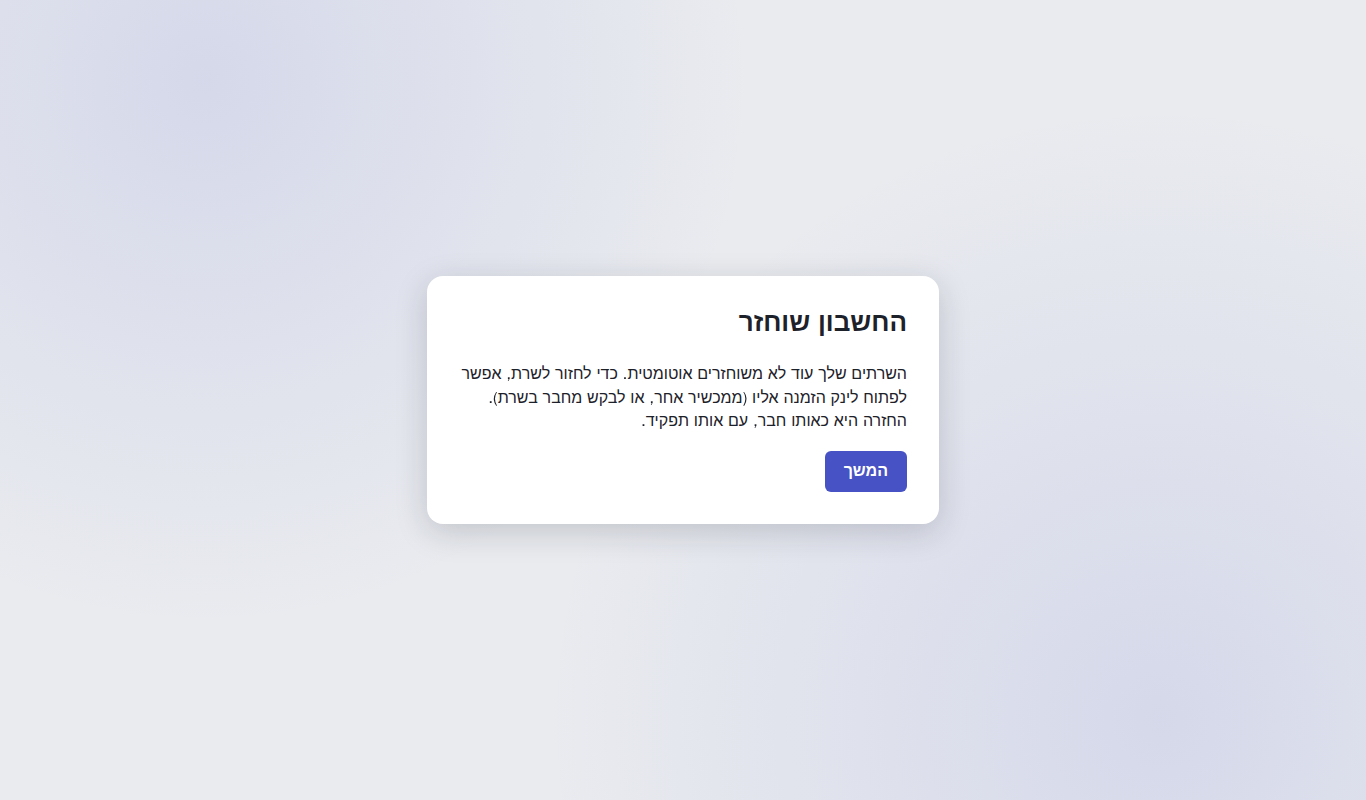
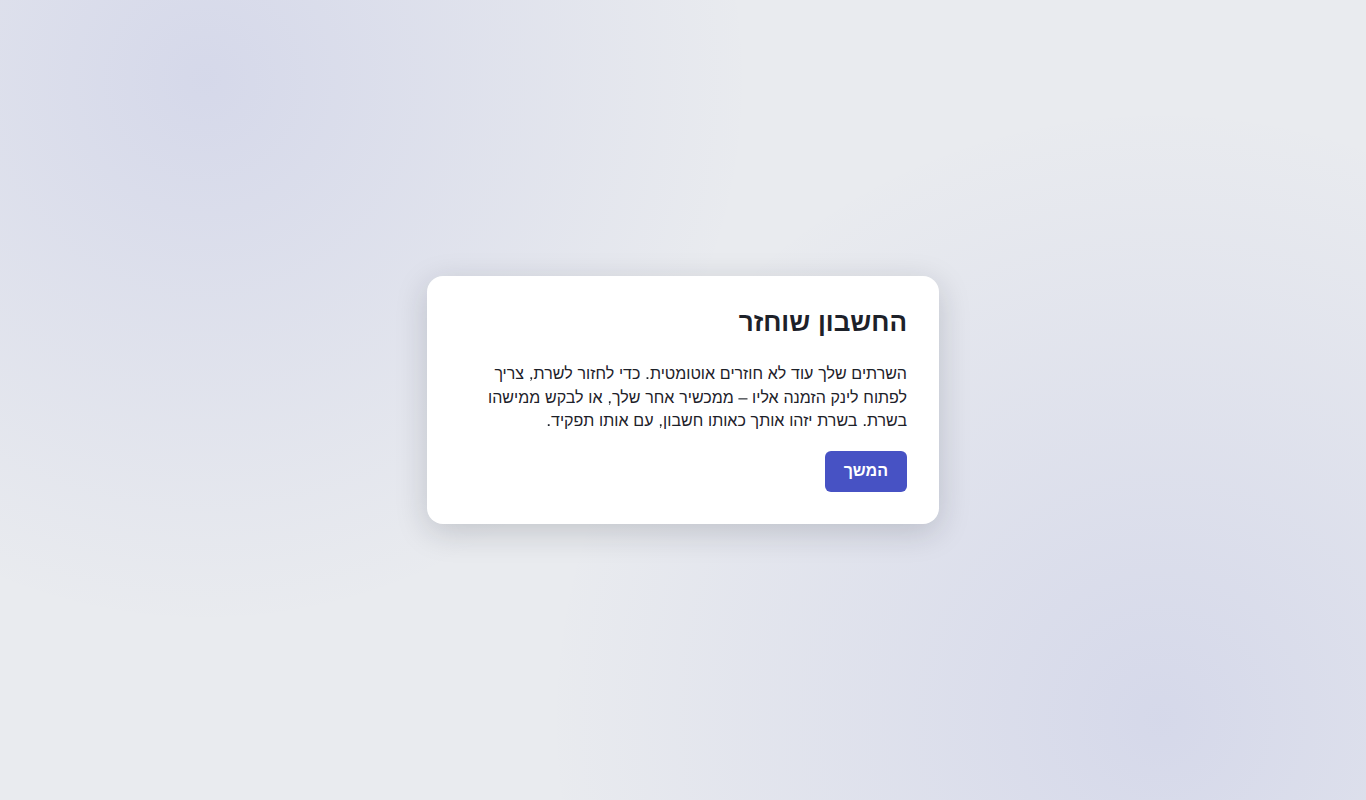
UI #293: neutral restore copy (UX/PO); a restore counts its own 6 steps (B13 §3)

Changed region(s): [[0.3382, 0.4375, 0.6764, 0.5312]]

diff --git a/ui/src/screens/onboarding/Onboarding.tsx b/ui/src/screens/onboarding/Onboarding.tsx
@@ -28,6 +28,8 @@ export type Step =
 
 /** Numbered steps shown as "step x of y"; blocked/preparing/restore are not counted. */
 const NUMBERED: Step[] = ['language', 'agreement', 'country', 'dob', 'words', 'check', 'profile'];
+/** A restore has its own count (B13 §3): no new words to write down or check. */
+const NUMBERED_RESTORE: Step[] = ['language', 'agreement', 'country', 'dob', 'restore', 'profile'];
 
 // Where onboarding resumes after a reload or a crash (QA-01, B19 spec §3).
 // Only the step name is stored, never the words.
@@ -100,7 +102,8 @@ export function Onboarding({ onFinished: finish, initialStep }: { onFinished: ()
     setStep('profile');
   };
 
-  const stepNo = NUMBERED.indexOf(step);
+  const numbered = restoring ? NUMBERED_RESTORE : NUMBERED;
+  const stepNo = numbered.indexOf(step);
 
   return (
     <main className="onboarding">
@@ -116,7 +119,7 @@ export function Onboarding({ onFinished: finish, initialStep }: { onFinished: ()
             )}
             {stepNo >= 0 && (
               <span className="muted small">
-                <FormattedMessage id="onb.progress" values={{ step: stepNo + 1, total: NUMBERED.length }} />
+                <FormattedMessage id="onb.progress" values={{ step: stepNo + 1, total: numbered.length }} />
               </span>
             )}
           </div>

diff --git a/ui/src/test/restore.test.tsx b/ui/src/test/restore.test.tsx
@@ -14,7 +14,8 @@ const he: Settings = { locale: 'he', theme: 'light', uiScale: 1, fontSize: 15 };
 
 async function toDob(year: string) {
   fireEvent.click(await screen.findByRole('button', { name: 'כבר יש לי חשבון' }));
-  // The agreement, as for a new account.
+  // The agreement, as for a new account, but counted as a restore (6 steps, B13 §3).
+  expect(screen.getByText('שלב 2 מתוך 6')).toBeTruthy();
   fireEvent.click(screen.getByRole('checkbox'));
   fireEvent.click(screen.getByRole('button', { name: 'המשך' }));
   fireEvent.click(screen.getByRole('button', { name: 'המשך' })); // country is prefilled
@@ -47,7 +48,7 @@ describe('restore', () => {
 
     // Servers don't come back by themselves yet: say so, and how to return.
     expect(await screen.findByRole('heading', { name: 'החשבון שוחזר' })).toBeTruthy();
-    expect(screen.getByText(/לינק הזמנה/).textContent).toContain('כאותו חבר, עם אותו תפקיד');
+    expect(screen.getByText(/לינק הזמנה/).textContent).toContain('כאותו חשבון, עם אותו תפקיד');
     fireEvent.click(screen.getByRole('button', { name: 'המשך' }));
     expect(await screen.findByRole('navigation', { name: 'שרתים' })).toBeTruthy();
   });
